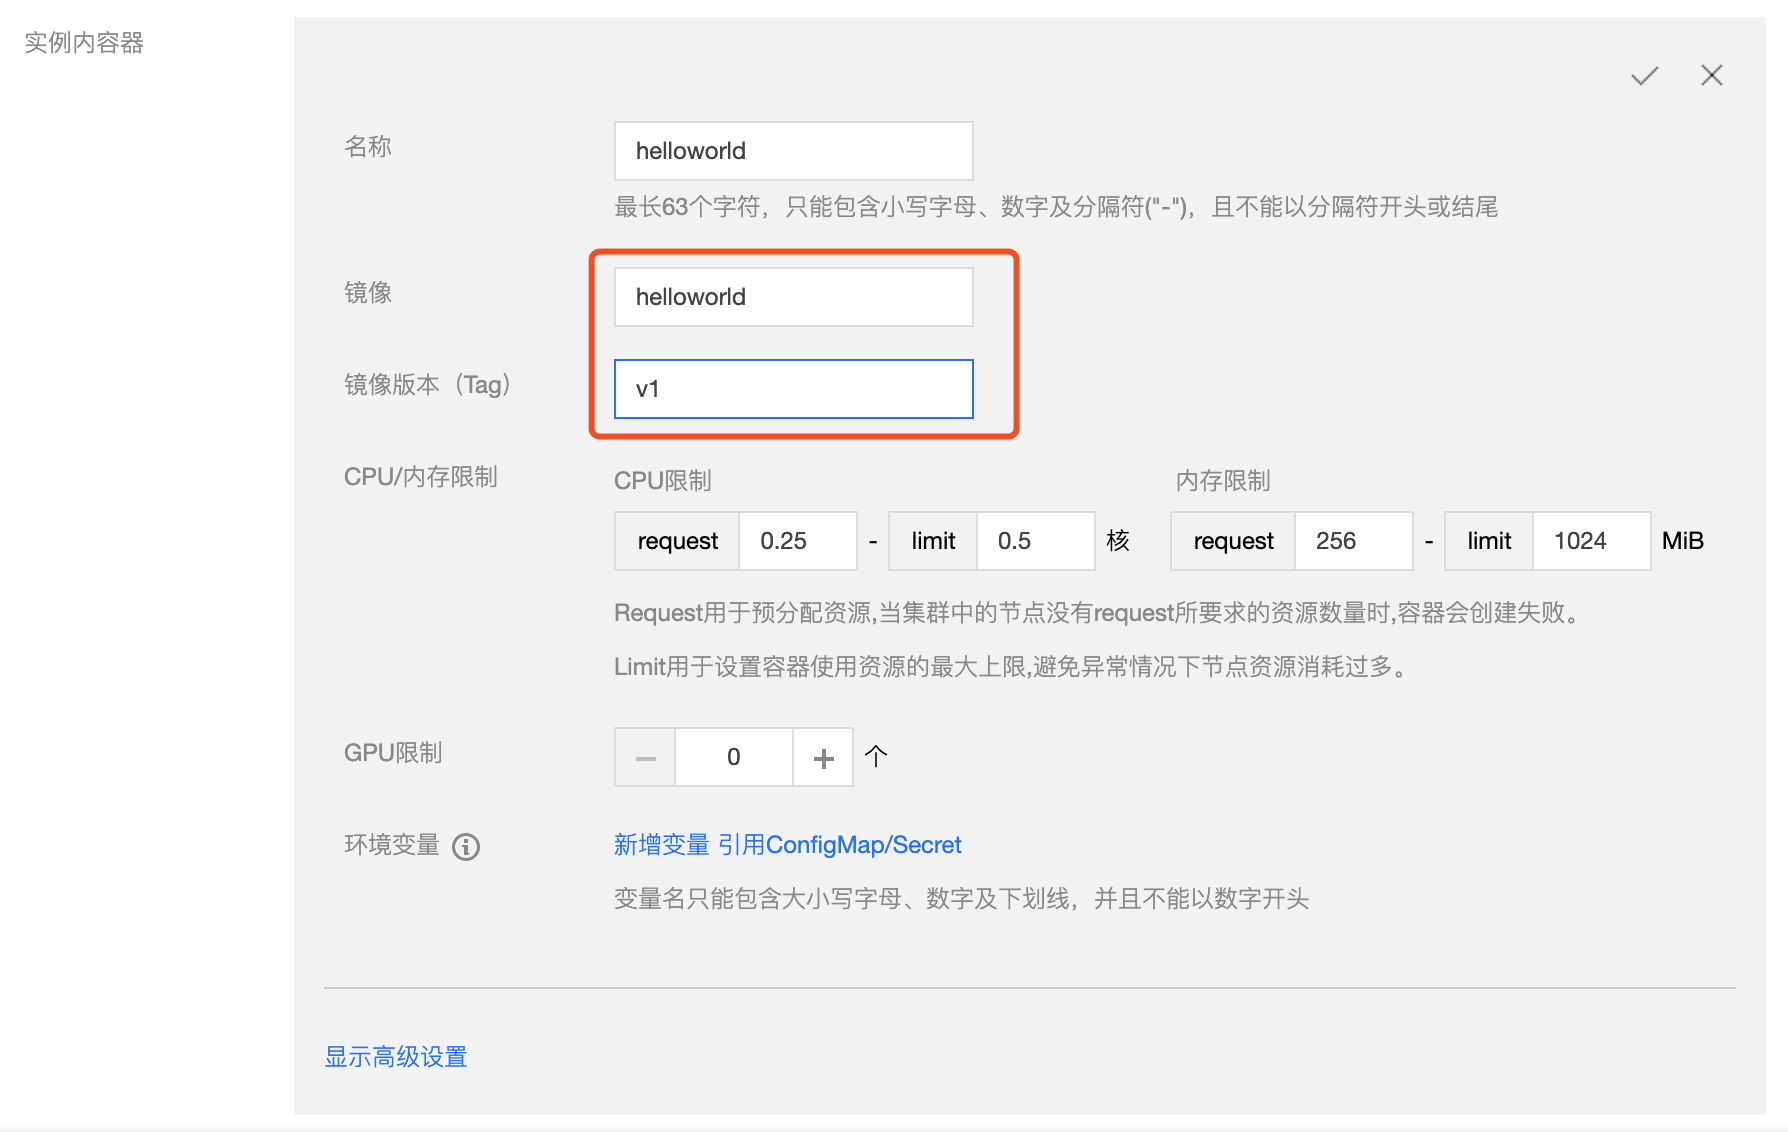
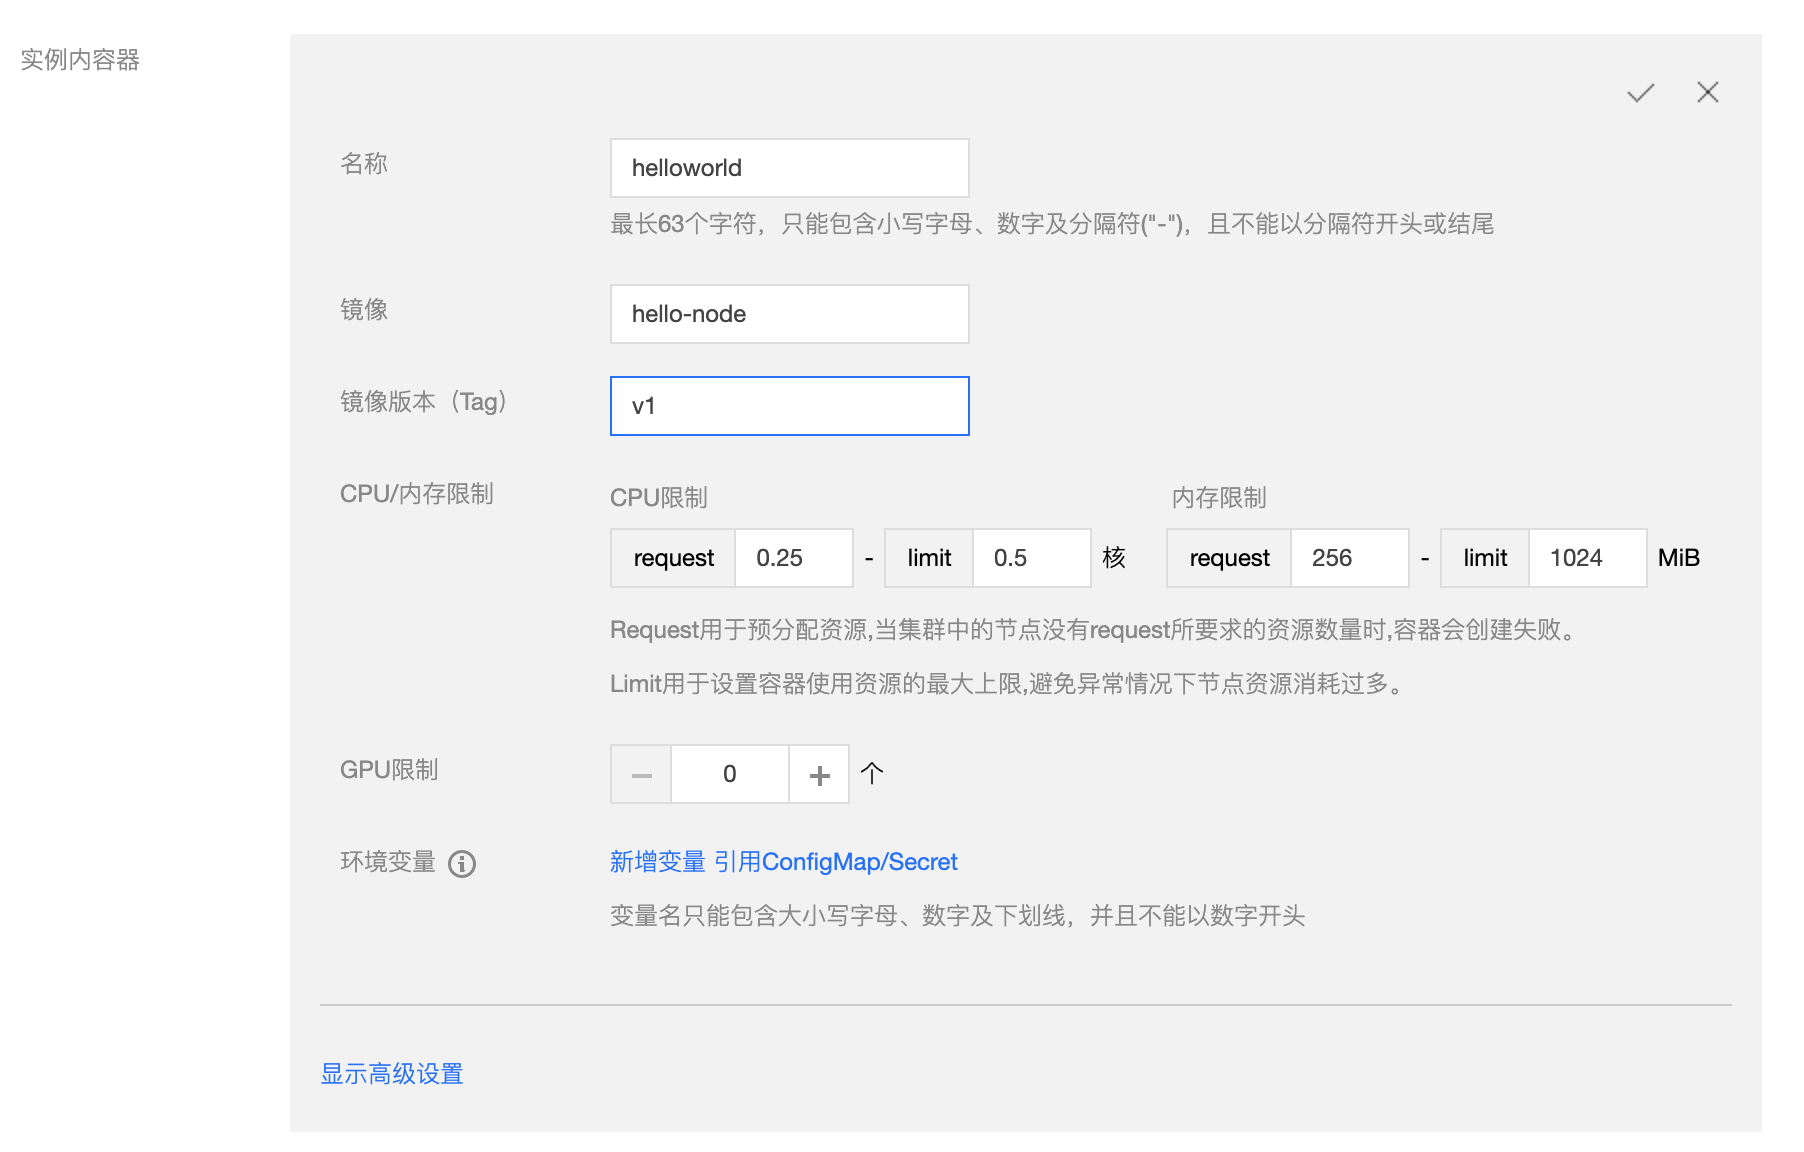
Update the documents

diff --git a/README.md b/README.md
@@ -7,9 +7,9 @@
 * [产品快速入门](https://github.com/tkestack/docs/tree/master/products)
   * [入门必读](https://github.com/tkestack/docs/blob/master/QuickStart/%E5%85%A5%E9%97%A8%E5%BF%85%E8%AF%BB.md)
   * [入门示例](https://github.com/tkestack/docs/blob/master/QuickStart/examples)
-    * [创建简单的 Nginx 服务](https://github.com/tkestack/docs/blob/master/QuickStart/eamples/%E5%88%9B%E5%BB%BA%E7%AE%80%E5%8D%95nginx%E6%9C%8D%E5%8A%A1.md)
-    * [编写 Hello World 程序](https://github.com/tkestack/docs/blob/master/QuickStart/eamples/%E7%BC%96%E5%86%99%20Hello%20World%E7%A8%8B%E5%BA%8F.md)
-    * [如何构建 Docker 镜像](https://github.com/tkestack/docs/blob/master/QuickStart/eamples/%E5%A6%82%E4%BD%95%E6%9E%84%E5%BB%BAdocker%E9%95%9C%E5%83%8F.md)
+    * [创建简单的 Nginx 服务](https://github.com/tkestack/docs/blob/master/QuickStart/examples/%E5%88%9B%E5%BB%BA%E7%AE%80%E5%8D%95nginx%E6%9C%8D%E5%8A%A1.md)
+    * [编写 Hello World 程序](https://github.com/tkestack/docs/blob/master/QuickStart/examples/%E7%BC%96%E5%86%99%20Hello%20World%E7%A8%8B%E5%BA%8F.md)
+    * [如何构建 Docker 镜像](https://github.com/tkestack/docs/blob/master/QuickStart/examples/%E5%A6%82%E4%BD%95%E6%9E%84%E5%BB%BAdocker%E9%95%9C%E5%83%8F.md)
 * [产品使用指南](https://github.com/tkestack/docs/tree/master/products)
   * [平台侧](https://github.com/tkestack/docs/tree/master/products/platform)
     * [集群管理](https://github.com/tkestack/docs/blob/master/products/platform/cluster.md)

diff --git a/QuickStart/examples/编写 Hello World程序.md b/QuickStart/examples/编写 Hello World程序.md
@@ -116,7 +116,7 @@ sudo sudo docker push default.registry.tke.com/命名空间/helloworld:v1
  - **类型**：根据实际需求进行选择。
  - **数据卷**：根据实需求设置工作负载的挂载卷。
 ![](../Images/Hello-World/helloworld-8.png)
-5. 设置**实例内容器**，输入实例内容器名称为 helloworld。镜像为helloworld:v1。
+5. 设置**实例内容器**，输入实例内容器名称为 helloworld。镜像为hello-node:v1。
    ![](../Images/Hello-World/helloworld-7.png)
 7. 设置实例数量，如下图所示：
  - **手动调节**：设定实例数量，本文实例数量设置为1。可单击“+”或“-”控制实例数量。

diff --git a/QuickStart/入门必读.md b/QuickStart/入门必读.md
@@ -20,7 +20,7 @@
   若容器所在主机有公网 IP 和带宽，则容器可直接访问外网，若容器所在主机无公网 IP 和带宽，则可以通过 NAT 网关访问外网。
 
 ## 部署业务
-- **我的业务需要配置很多文本或环境变量，该怎么管理？ ** 
+- **我的业务需要配置很多文本或环境变量，该怎么管理？** 
 
   您可以通过 [配置项](/doc/product/457/10173) 来管理配置文件。
 
